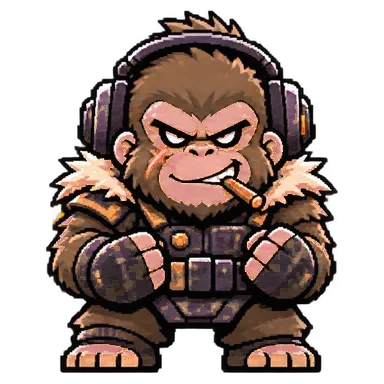
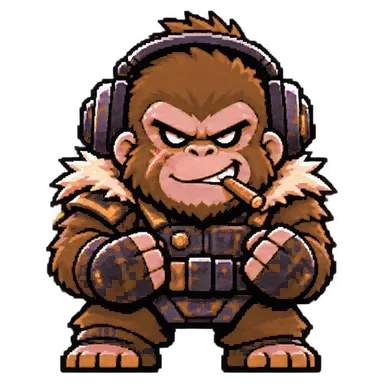
Rush: common colourways based on real morphs, shown in soldier label
Claude-Session: https://claude.ai/code/session_01BQSd4ftyBkNms49NmCfmYW

diff --git a/public/rush/index.html b/public/rush/index.html
@@ -735,22 +735,24 @@ function nickFor(s){const L=s.log||[];if(!L.length)return pick(['Ghost','Boots',
   if(late)return 'Photo Finish';if(avgM<=10)return 'Quickdraw';if(avgM>=45)return 'Marathon';if(avgSt>=3)return 'Checklist';if(early>=L.length*.6)return 'Early Bird';
   return {speedy:'Zoom',tough:'Iron',glutton:'Snacks',eager:'Keen'}[s.trait]||pick(['Ghost','Boots','Sparky','Ace','Tank'])}
 const dname=s=>s.nick?`${s.name} "${s.nick}"`:s.name;
-function ensure(s){if(!s.story)s.story=rollStory();if(!s.storySeen)s.storySeen=Math.min(rankOf(s.xp||0),1);if(s.hue){s.hue=0;s.coat='classic'}if(s.coat!=='galaxy'&&!coatsFor(s.sp).includes(s.coat))s.coat='classic';if(!s.pers)s.pers=pick(PERS);if(!s.tic)s.tic=pick(TICS);if(!s.call)s.call=pick(CALLS);if(!s.catch)s.catch=makeCatch();if(!s.log)s.log=[];if(s.nick===undefined)s.nick=null;if(!s.born)s.born=Date.now()}
+function ensure(s){if(OLDCOAT[s.coat])s.coat=OLDCOAT[s.coat];if(!s.story)s.story=rollStory();if(!s.storySeen)s.storySeen=Math.min(rankOf(s.xp||0),1);if(s.hue){s.hue=0;s.coat='classic'}if(s.coat!=='galaxy'&&!coatsFor(s.sp).includes(s.coat))s.coat='classic';if(!s.pers)s.pers=pick(PERS);if(!s.tic)s.tic=pick(TICS);if(!s.call)s.call=pick(CALLS);if(!s.catch)s.catch=makeCatch();if(!s.log)s.log=[];if(s.nick===undefined)s.nick=null;if(!s.born)s.born=Date.now()}
 
 
 const rankOf=xp=>{let r=1;XP_AT.forEach((v,i)=>{if(xp>=v)r=i+1});return r};
 const pct=xp=>{const r=rankOf(xp);return r>=5?100:Math.round((xp-XP_AT[r-1])/(XP_AT[r]-XP_AT[r-1])*100)};
 const SIZE=[70,79,87,94,100];
 /* coats: half of recruits get a common colourway; rare 1 in 20, legendary 1 in 60. Only the body is recoloured, pre-rendered in img/coats */
-const COMMON={gorilla:['ginger','jet','sandy'],kitsune:['redfox','sand','arctic'],giraffe:['midnight','chestnut','blonde'],shoebill:['slate','mocha','dusk'],octopus:['coral','amber','cobalt'],bee:['frost','lime','rose'],jorts:['acidwash','rawindigo','pinkdenim'],vase:['imperialred','celadon','saffron']};
+const COMMON={gorilla:['mountain','lowland','ginger'],kitsune:['red','silver','marble'],giraffe:['reticulated','masai','kordofan'],shoebill:['juvenile','storm','dusty'],octopus:['blueringed','mimic','common'],bee:['carpenter','orchid','leafcutter'],jorts:['acidwash','bleached','khaki'],vase:['celadon','imari','famillerose']};
+const OLDCOAT={jet:'mountain',sandy:'lowland',redfox:'red',sand:'marble',arctic:'silver',midnight:'masai',chestnut:'reticulated',blonde:'kordofan',slate:'storm',mocha:'juvenile',dusk:'dusty',coral:'common',amber:'mimic',cobalt:'blueringed',frost:'leafcutter',lime:'orchid',rose:'carpenter',rawindigo:'bleached',pinkdenim:'khaki',imperialred:'imari',saffron:'famillerose'};
 const SPCOATS={kitsune:['shadow'],giraffe:['albino'],shoebill:['snowy','raven'],gorilla:['silverback'],octopus:['crimson','deepsea'],bee:['hornet'],jorts:['blackdenim'],vase:[]};
-const COATNAME={ginger:'Ginger',jet:'Jet',sandy:'Sandy',redfox:'Red Fox',sand:'Sand',arctic:'Arctic',midnight:'Midnight',chestnut:'Chestnut',blonde:'Blonde',slate:'Slate',mocha:'Mocha',dusk:'Dusk',coral:'Coral',amber:'Amber',cobalt:'Cobalt',frost:'Frost',lime:'Lime',rose:'Rose',acidwash:'Acid Wash',rawindigo:'Raw Indigo',pinkdenim:'Pink Denim',imperialred:'Imperial Red',celadon:'Celadon',saffron:'Saffron',camo:'Camo',noir:'Noir',galaxy:'Galaxy',shadow:'Shadow',albino:'Albino',snowy:'Snowy',raven:'Raven',silverback:'Silverback',crimson:'Crimson',deepsea:'Deep Sea',hornet:'Hornet',blackdenim:'Black Denim'};
+const COATNAME={mountain:'Mountain',lowland:'Lowland',ginger:'Ginger',red:'Red',silver:'Silver',marble:'Marble',reticulated:'Reticulated',masai:'Masai',kordofan:'Kordofan',juvenile:'Juvenile',storm:'Storm',dusty:'Dusty',blueringed:'Blue-ringed',mimic:'Mimic',common:'Common',carpenter:'Carpenter',orchid:'Orchid',leafcutter:'Leafcutter',acidwash:'Acid Wash',bleached:'Bleached',khaki:'Khaki',celadon:'Celadon',imari:'Imari',famillerose:'Famille Rose',camo:'Camo',noir:'Noir',galaxy:'Galaxy',shadow:'Shadow',albino:'Albino',snowy:'Snowy',raven:'Raven',silverback:'Silverback',crimson:'Crimson',deepsea:'Deep Sea',hornet:'Hornet',blackdenim:'Black Denim'};
 const LEGEND=['galaxy'],RARE=['camo','noir',...new Set(Object.values(SPCOATS).flat())];
 const coatsFor=sp=>[...(COMMON[sp]||[]),'camo','noir',...(SPCOATS[sp]||[])],rareFor=sp=>['camo','noir',...(SPCOATS[sp]||[])];
 const coatTier=c=>LEGEND.includes(c)?'LEGENDARY':RARE.includes(c)?'RARE':'';
 const rollCoat=sp=>{const r=Math.random();return r<1/60?'galaxy':r<1/60+1/20?pick(rareFor(sp)):r<.55?pick(COMMON[sp]||['classic']):'classic'};
 const coatOf=s=>(s.coat==='galaxy'||coatsFor(s.sp).includes(s.coat))?s.coat:'classic';
 const coatLabel=c=>(COATNAME[c]||c).toUpperCase();
+const kindOf=s=>{const c=coatOf(s);return ((COMMON[s.sp]||[]).includes(c)?COATNAME[c]+' ':'')+SPECIES[s.sp]};
 const img=(s,o={})=>{const rk=o.rank||(o.fallen&&s.rank)||rankOf(s.xp||0),c=coatOf(s),src=o.fallen?`img/${s.sp}_fallen.webp`:c==='classic'?`img/${s.sp}_${rk}.webp`:`img/coats/${s.sp}_${rk}_${c}.webp`,sz=o.full?100:SIZE[rk-1]||100;
   const f=`style="width:${sz}%;height:${sz}%"`;
   return `<img class="spr${o.cls?' '+o.cls:''}" src="${src}" ${f} alt="${esc(o.alt||((s.name?s.name+', ':'')+SPECIES[s.sp]))}" draggable="false">`};
@@ -848,7 +850,7 @@ function drawSquad(){
   const sq=Math.random()<.18?squadLine(s):null;
   $('b-say').textContent=sq?sq:S.away?tic(s,`You were gone ${S.away} days, ${s.call}.`):(Math.random()<.5&&S.draft.task?fill(s,pick(TASKLINES[s.pers]||TASKLINES.stoic),S.draft.task):(memory(s,S.draft.task)||line(s,'greet')));S.away=0;startChat(s,'b-say');
   $('b-name').textContent=dname(s);
-  $('b-meta').textContent=(out?`MED BAY · back in ${hrs(s.medUntil-Date.now())}h · `:'')+`LV${r} ${RANKS[r-1]} · ${SPECIES[s.sp]} · ${TRAITS[s.trait].n} · ${cap1(s.pers)}`+(coatTier(c)?` · ★ ${coatLabel(c)}`:'');
+  $('b-meta').textContent=(out?`MED BAY · back in ${hrs(s.medUntil-Date.now())}h · `:'')+`LV${r} ${RANKS[r-1]} · ${kindOf(s)} · ${TRAITS[s.trait].n} · ${cap1(s.pers)}`+(coatTier(c)?` · ★ ${coatLabel(c)}`:'');
   $('b-xp').style.width=pct(s.xp)+'%';
   $('b-prev').style.visibility=$('b-next').style.visibility=n>1?'visible':'hidden';
   $('b-dots').innerHTML=n>1?S.roster.map(x=>`<i class="${x.id===s.id?'on':''}"></i>`).join(''):'';
@@ -1377,7 +1379,7 @@ if(S.dev)$('devtag').hidden=false;
 const RES={win:'WIN',late:'CLOSE CALL',excuse:'EXCUSE',tough:'PULLED THROUGH'};
 function drawFile(){const s=soldier(S.sel);if(!s){go('task');return}ensure(s);const r=rankOf(s.xp),L=s.log||[];
   $('f-pic').innerHTML=img(s);$('f-name').textContent=s.name;$('f-nick').textContent=s.nick?`"${s.nick}"`:'NICKNAME EARNED AT FIRST PROMOTION';
-  $('f-meta').textContent=`${RANKS[r-1]} ${SPECIES[s.sp]} · ${cap1(s.pers)} · ${TRAITS[s.trait].n}`+(coatTier(coatOf(s))?` · ${coatTier(coatOf(s))} ${coatLabel(coatOf(s))} COAT`:'');
+  $('f-meta').textContent=`${RANKS[r-1]} ${kindOf(s)} · ${cap1(s.pers)} · ${TRAITS[s.trait].n}`+(coatTier(coatOf(s))?` · ${coatTier(coatOf(s))} ${coatLabel(coatOf(s))} COAT`:'');
   $('f-catch').textContent=tic(s,s.catch);
   $('f-won').textContent=s.missions;$('f-days').textContent=daysWith(s);$('f-close').textContent=L.filter(e=>e.r!=='win').length;
   $('f-log').innerHTML=L.length?L.slice().reverse().map(e=>`<div class="rec"><b>${fmtDate(e.d).toUpperCase()} · <span class="w">${RES[e.r]||'WIN'}</span> · ${e.m} MIN</b><span>${esc(e.t)}</span>${e.why?`<span>&quot;${esc(e.why)}&quot;</span>`:''}</div>`).join(''):'<p class="sub">No missions yet.</p>'}
